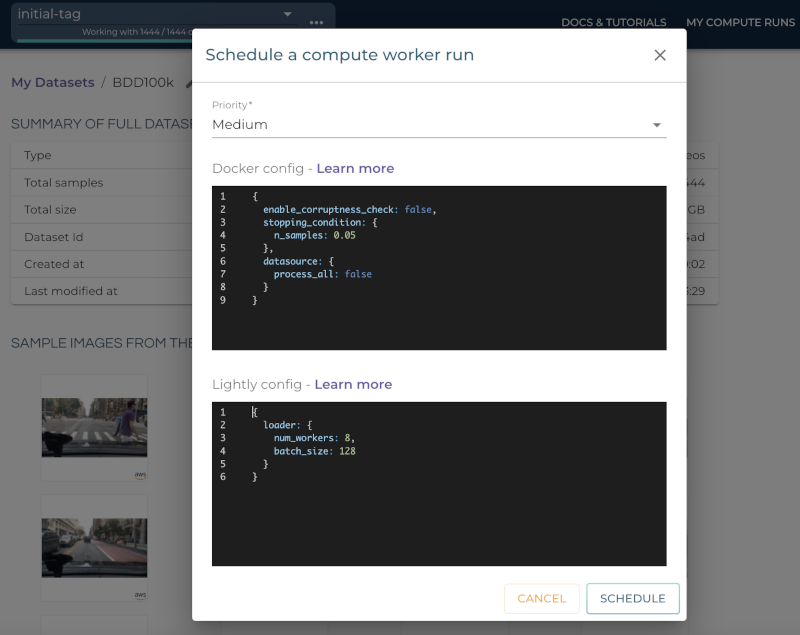
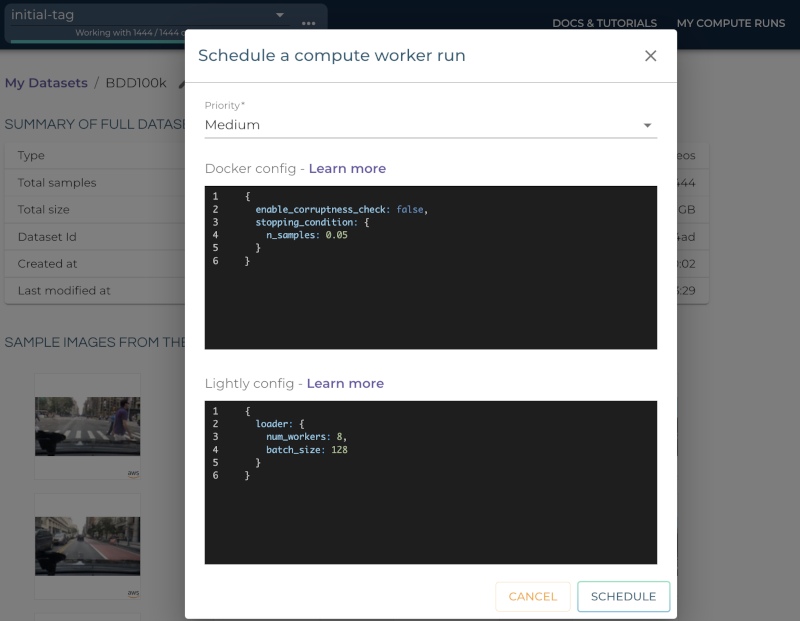
Update screenshot. Add config example.

diff --git a/docs/source/docker/integration/docker_trigger_from_api.rst b/docs/source/docker/integration/docker_trigger_from_api.rst
@@ -96,20 +96,23 @@ for the job.
 
 .. image:: images/schedule-compute-run-config.png
 
+In our example we use the following parameters.
+
+
+
 .. code-block:: javascript
+  :caption: Docker Config
 
   {
     enable_corruptness_check: false,
     stopping_condition: {
       n_samples: 0.05
-    },
-    datasource: {
-      process_all: false
     }
   }
 
 
 .. code-block:: javascript
+  :caption: Lightly Config
 
   {
     loader: {
@@ -117,6 +120,8 @@ for the job.
       batch_size: 128
     }
   }
+
+Once the parameters are set you can schedule the run using a click on **schedule**.
 
 
 View the progress of the Lightly Docker
